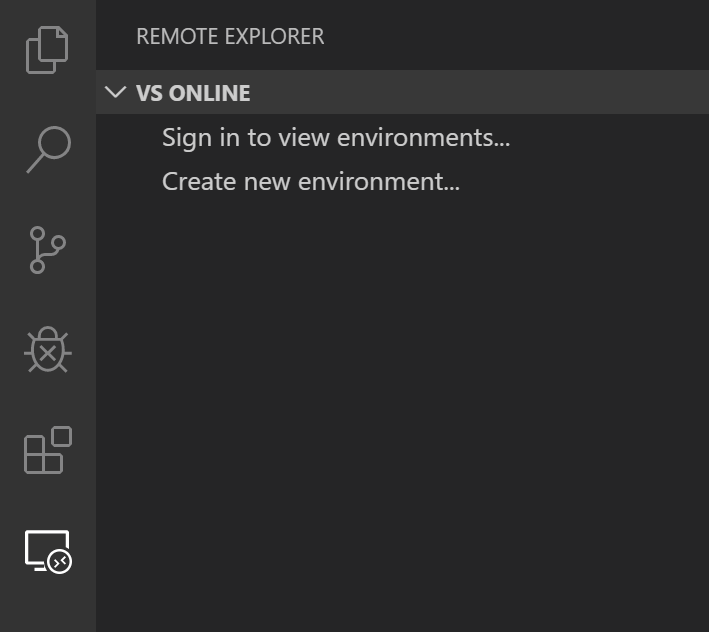
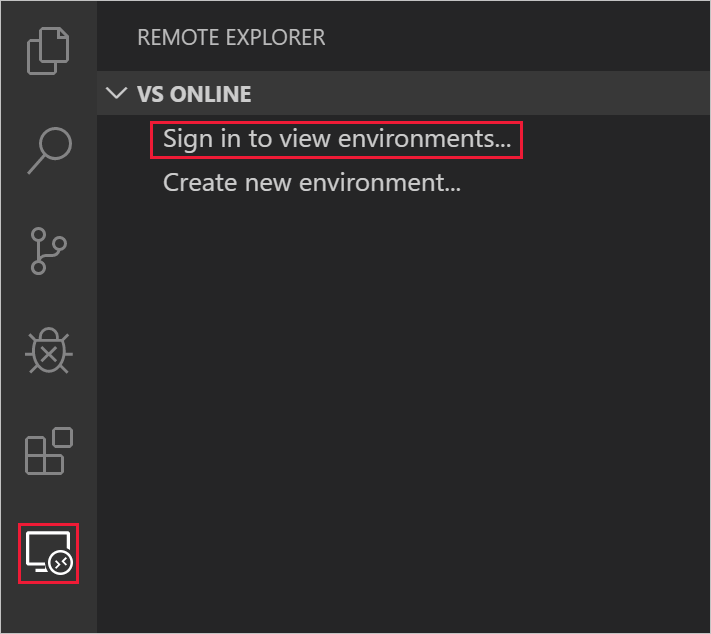
Fixing grey border since it didn't auto-add as expected.

diff --git a/vs-online/how-to/vscode.md b/vs-online/how-to/vscode.md
@@ -31,34 +31,37 @@ If you'd like to use Visual Studio Online from within Visual Studio Code, you'll
 
 You can install the [Visual Studio Online extension](https://aka.ms/vso-dl) from the [Visual Studio Code Marketplace](https://marketplace.visualstudio.com/VSCode) by clicking on the green install button near the top of the page and following the prompts.
 
-<!-- SCREENSHOT NEEDED -->
+<!-- TODO: SCREENSHOT NEEDED -->
 
 ### Install from within Visual Studio Code
 
 Alternatively, from within Visual Studio Code search for '*Visual Studio Online*' within the **Extensions** panel, select the extension from the list, and press the **Install** button.
 
-<!-- SCREENSHOT NEEDED -->
+<!-- TODO: SCREENSHOT NEEDED -->
 
 ### Post installation
 
 When successfully installed, the Visual Studio Online panel will be available in the **Remote Explorer** pane.
 
-<!-- SCREENSHOT NEEDED -->
+<!-- TODO: SCREENSHOT NEEDED -->
 
 This panel provides a management interface for interacting with Visual Studio Online environments, and is covered in full detail in the remainder of this document.
 
 In addition to the panel, Visual Studio Code will also show the remote indicator when the Visual Studio Online extension is installed. The remote indicator signals your connection status, and provides a list of available Visual Studio Online commands when clicked.
 
-<!-- SCREENSHOT NEEDED -->
+<!-- TODO: SCREENSHOT NEEDED -->
 
 ## Sign In
 
 To sign into Visual Studio Online, you can either use the *VS Online: Sign In* command in the [command palette](https://code.visualstudio.com/docs/getstarted/userinterface#_command-palette), or by choosing *Sign in to view environments...* in the **Remote Explorer** side bar, under the VS Online panel.
 
-[!div class="mx-imgBorder"]
+<!-- TODO: "Create new environment shouldn't be in this screenshot -->
 ![Sign In to Visual Studio Online](../images/sign-in-vsc.png)
 
+<!-- TODO: 
+Add content for:
 - Filtering Azure Subscription
+-->
 
 ## Create a Plan
 
